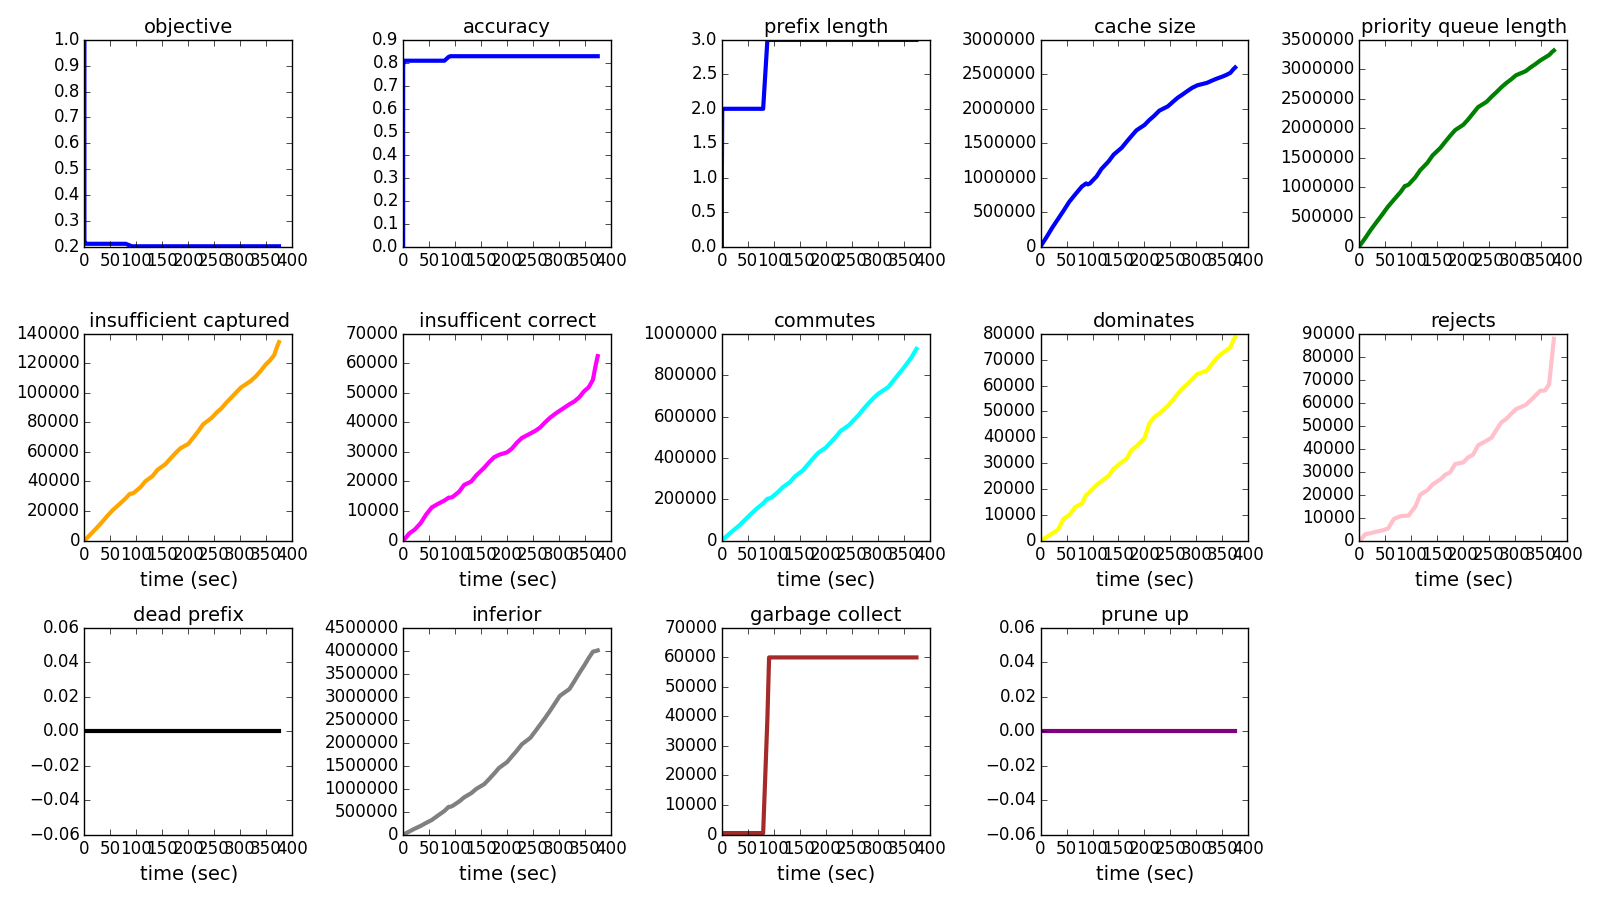
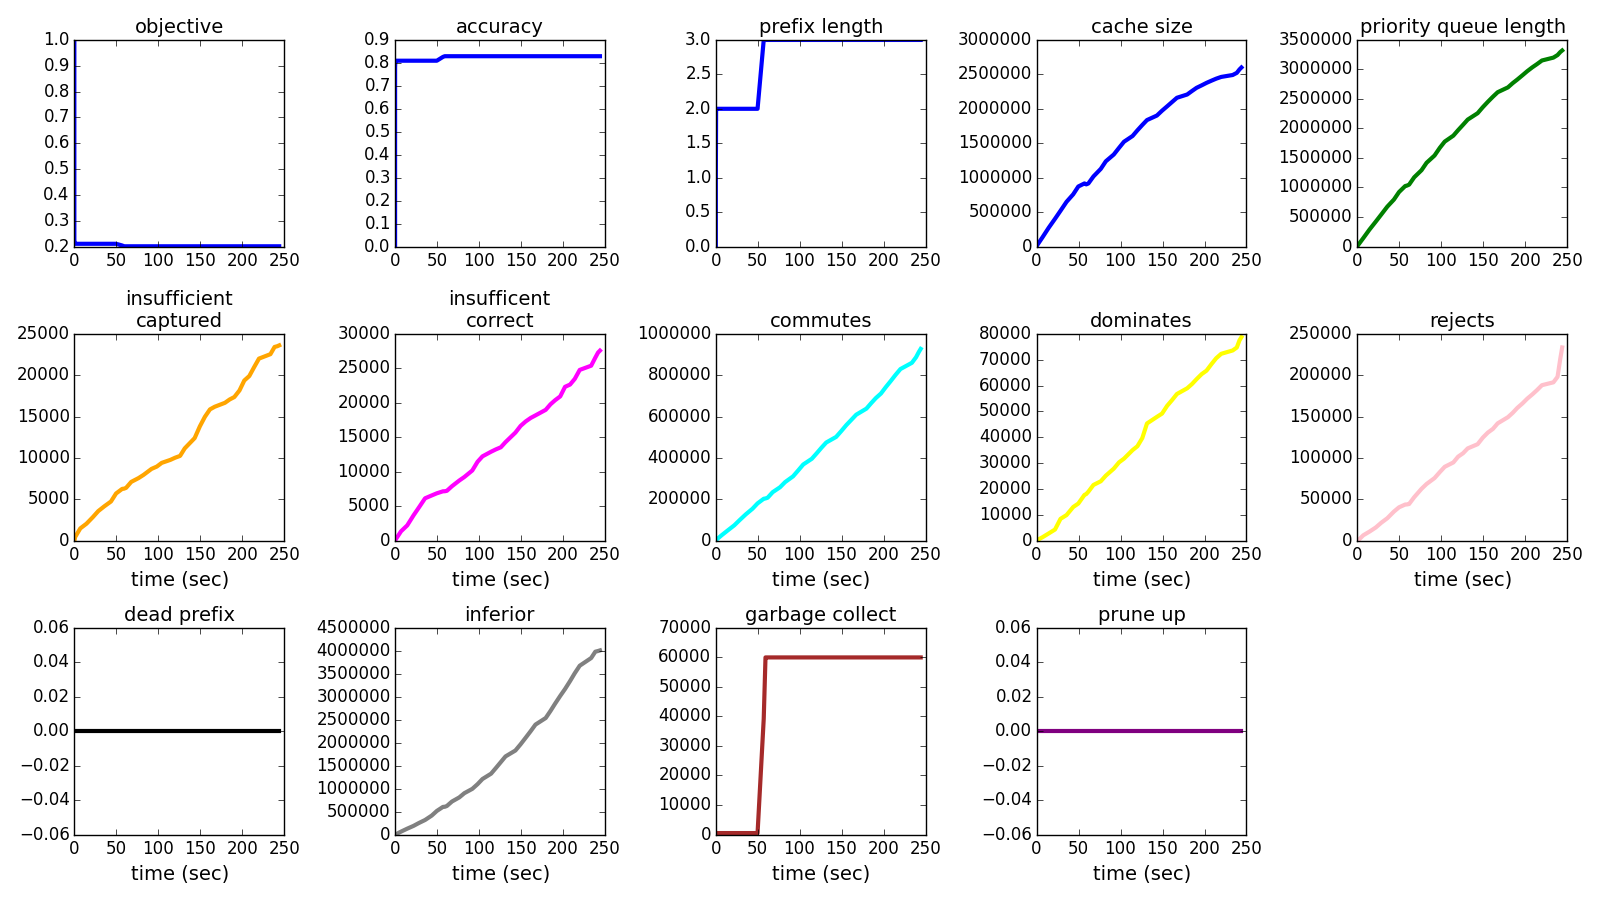
Summary file for tdata

diff --git a/code/serial_priority.py b/code/serial_priority.py
@@ -530,3 +530,28 @@ def adult_regularize(dout='../results/', fout='adult-regularize.md'):
             fh.write('![%s-cache](../figs/%s-cache.png)\n' % (md, md))
     fh.close()
     return
+
+def tdata(dout='../results/', fout='tdata.md'):
+    import pylab
+    if not os.path.exists(dout):
+        os.mkdir(dout)
+    fh = open(os.path.join(dout, fout), 'w')
+    descr = []
+    fh.write('##tic-tac-toe dataset (curiosity, c = d = 0.01)\n\n')
+    f = 'tdata'
+    froot = '%s_R' % f
+    print froot
+    pylab.close('all')
+    (metadata, metrics, cache, priority_queue, best, rule_list) = tdata_3()
+    descr += [(rule_list, metadata)]
+    for (rule_list, md) in descr:
+        rl = '\n'.join(['\t' + line for line in rule_list.strip().split('\n')])
+        fh.write('%s\n' % rl)
+        if os.path.exists('../figs/%s-log.png' % md):
+            fh.write('\n![%s-log](../figs/%s-log.png)\n' % (md, md))
+        if os.path.exists('../figs/%s-leaves.png' % md):
+            fh.write('![%s-cache](../figs/%s-leaves.png)\n' % (md, md))
+        if os.path.exists('../figs/%s-cache.png' % md):
+            fh.write('![%s-cache](../figs/%s-cache.png)\n' % (md, md))
+    fh.close()
+    return

diff --git a/results/adult-metrics.md b/results/adult-metrics.md
@@ -4,49 +4,3 @@ stop after 2,600,000 cache entries
 
 | priority metric | time (s) | objective | lower bound | accuracy | upper bound | best prefix |
 | --- | --- | --- | --- | --- | --- | --- |
-| breadth_first | 374.768 | 0.201 | 0.075 | 0.829 | 0.955 | (43, 122, 121) |
-| curiosity | 187.942 | 0.221 | 0.058 | 0.809 | 0.972 | (41, 43, 69) |
-| lower_bound | 188.423 | 0.204 | 0.072 | 0.826 | 0.958 | (43, 179, 121) |
-| objective | 260.744 | 0.201 | 0.075 | 0.829 | 0.955 | (43, 122, 121) |
-
-###breadth_first
-
-	if {capital.gain=7298LessThancapital-gain,capital.loss=capital-lossEQ0} then predict 0
-	else if {marital.status=Married,occupation=Prof-specialty} then predict 0
-	else if {marital.status=Married,occupation=Exec-managerial} then predict 0
-	else predict 1
-
-![adult_R-serial_priority-c=0.01000-min_cap=0.010-min_objective=1.000-method=breadth_first-max_cache_size=2600000-sample=0.10-log](../figs/adult_R-serial_priority-c=0.01000-min_cap=0.010-min_objective=1.000-method=breadth_first-max_cache_size=2600000-sample=0.10-log.png)
-
-![adult_R-serial_priority-c=0.01000-min_cap=0.010-min_objective=1.000-method=breadth_first-max_cache_size=2600000-sample=0.10-leaves](../figs/adult_R-serial_priority-c=0.01000-min_cap=0.010-min_objective=1.000-method=breadth_first-max_cache_size=2600000-sample=0.10-leaves.png)
-
-###curiosity
-
-	if {age=Young,workclass=Private} then predict 1
-	else if {capital.gain=7298LessThancapital-gain,capital.loss=capital-lossEQ0} then predict 0
-	else if {education=Bachelors,marital.status=Married} then predict 0
-	else predict 1
-
-![adult_R-serial_priority-c=0.01000-min_cap=0.010-min_objective=1.000-method=curiosity-max_cache_size=2600000-sample=0.10-log](../figs/adult_R-serial_priority-c=0.01000-min_cap=0.010-min_objective=1.000-method=curiosity-max_cache_size=2600000-sample=0.10-log.png)
-
-![adult_R-serial_priority-c=0.01000-min_cap=0.010-min_objective=1.000-method=curiosity-max_cache_size=2600000-sample=0.10-leaves](../figs/adult_R-serial_priority-c=0.01000-min_cap=0.010-min_objective=1.000-method=curiosity-max_cache_size=2600000-sample=0.10-leaves.png)
-
-###lower_bound
-
-	if {capital.gain=7298LessThancapital-gain,capital.loss=capital-lossEQ0} then predict 0
-	else if {occupation=Prof-specialty,relationship=Husband} then predict 0
-	else if {marital.status=Married,occupation=Exec-managerial} then predict 0
-	else predict 1
-
-![adult_R-serial_priority-c=0.01000-min_cap=0.010-min_objective=1.000-method=lower_bound-max_cache_size=2600000-sample=0.10-log](../figs/adult_R-serial_priority-c=0.01000-min_cap=0.010-min_objective=1.000-method=lower_bound-max_cache_size=2600000-sample=0.10-log.png)
-
-![adult_R-serial_priority-c=0.01000-min_cap=0.010-min_objective=1.000-method=lower_bound-max_cache_size=2600000-sample=0.10-leaves](../figs/adult_R-serial_priority-c=0.01000-min_cap=0.010-min_objective=1.000-method=lower_bound-max_cache_size=2600000-sample=0.10-leaves.png)
-
-###objective
-
-	if {capital.gain=7298LessThancapital-gain,capital.loss=capital-lossEQ0} then predict 0
-	else if {marital.status=Married,occupation=Prof-specialty} then predict 0
-	else if {marital.status=Married,occupation=Exec-managerial} then predict 0
-	else predict 1
-
-![adult_R-serial_priority-c=0.01000-min_cap=0.010-min_objective=1.000-method=objective-max_cache_size=2600000-sample=0.10-leaves](../figs/adult_R-serial_priority-c=0.01000-min_cap=0.010-min_objective=1.000-method=objective-max_cache_size=2600000-sample=0.10-leaves.png)
